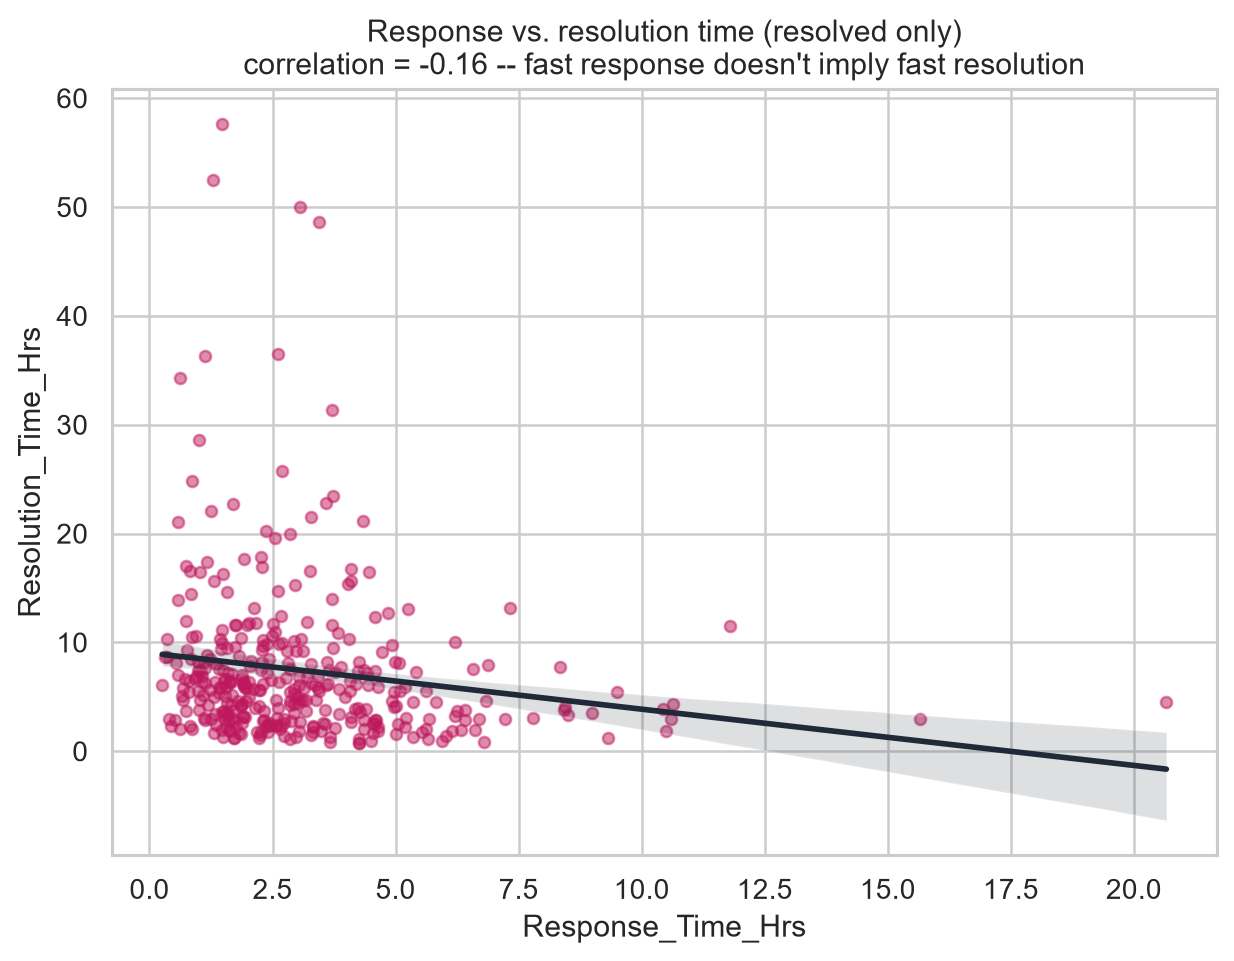
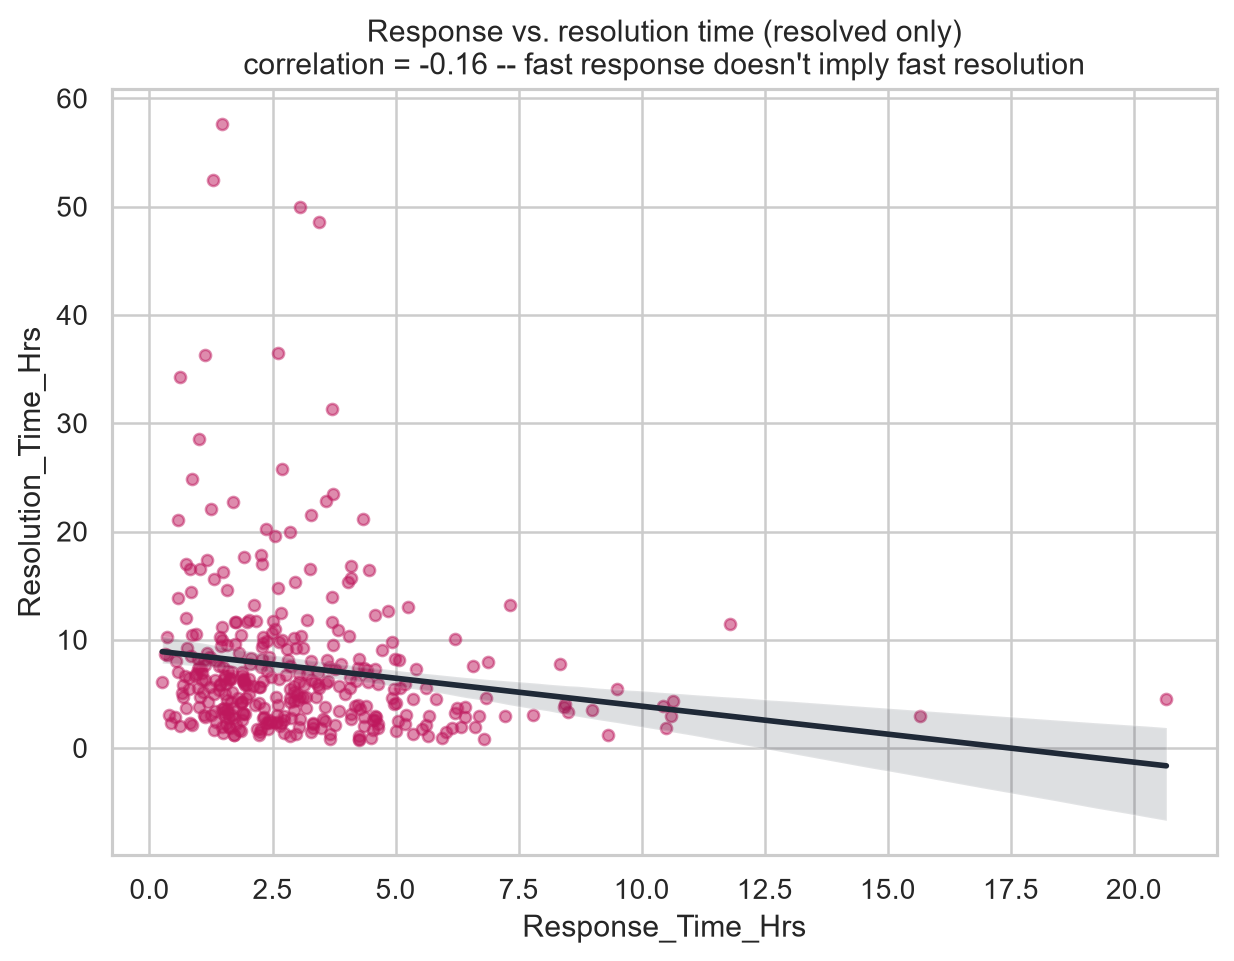
Add cross-validation functionality and update model evaluation metrics
- Implemented 5-fold cross-validation in the training process.
- Refactored training and evaluation functions for clarity and reusability.
- Updated model metrics note to reflect changes in evaluation methodology.
- Added new JSON output for cross-validation results.
- Updated existing metrics to provide clearer insights on model performance.

Changed region(s): [[0.0616, 0.4995, 0.9854, 0.8117], [0.0924, 0.437, 0.9854, 0.4995], [0.0308, 0.5307, 0.0616, 0.5619]]

diff --git a/main.py b/main.py
@@ -33,7 +33,7 @@ import seaborn as sns
 import torch
 from sklearn.compose import ColumnTransformer
 from sklearn.metrics import mean_absolute_error, mean_squared_error, r2_score
-from sklearn.model_selection import train_test_split
+from sklearn.model_selection import KFold, train_test_split
 from sklearn.preprocessing import OneHotEncoder, StandardScaler
 from torch import nn
 from torch.utils.data import DataLoader, TensorDataset
@@ -211,6 +211,54 @@ class ResolutionMLP(nn.Module):
         return self.network(x).squeeze(1)
 
 
+def _train_mlp(
+    X_train: pd.DataFrame, y_train: pd.Series,
+    X_val: pd.DataFrame, y_val: pd.Series,
+    epochs: int, patience: int = 30,
+) -> tuple[nn.Module, ColumnTransformer, list[dict]]:
+    """Fit a preprocessor + MLP on (X_train, y_train), early-stopping on
+    (X_val, y_val). Shared by the single-split run and each CV fold so the
+    two can't drift apart.
+    """
+    preprocessor = ColumnTransformer([
+        ("categorical", OneHotEncoder(handle_unknown="ignore", sparse_output=False), CAT_FEATURES),
+        ("numeric", StandardScaler(), NUM_FEATURES),
+    ])
+    train_np = np.ascontiguousarray(preprocessor.fit_transform(X_train).astype("float32"))
+    val_np = np.ascontiguousarray(preprocessor.transform(X_val).astype("float32"))
+    train_x, val_x = map(torch.from_numpy, [train_np, val_np])
+    train_y = torch.from_numpy(y_train.to_numpy(dtype="float32").copy())
+    val_y = torch.from_numpy(y_val.to_numpy(dtype="float32").copy())
+
+    model = ResolutionMLP(train_x.shape[1])
+    optimizer = torch.optim.AdamW(model.parameters(), lr=1e-3, weight_decay=1e-4)
+    loss_fn = nn.HuberLoss()
+    loader = DataLoader(TensorDataset(train_x, train_y), batch_size=32, shuffle=True)
+    best_state, best_val, patience_left = None, float("inf"), patience
+    history = []
+    for epoch in range(1, epochs + 1):
+        model.train()
+        losses = []
+        for xb, yb in loader:
+            optimizer.zero_grad()
+            loss = loss_fn(model(xb), yb)
+            loss.backward()
+            optimizer.step()
+            losses.append(loss.item())
+        model.eval()
+        with torch.no_grad():
+            val_loss = loss_fn(model(val_x), val_y).item()
+        history.append({"epoch": epoch, "train_loss": float(np.mean(losses)), "val_loss": val_loss})
+        if val_loss < best_val - 1e-4:
+            best_val, best_state, patience_left = val_loss, copy.deepcopy(model.state_dict()), patience
+        else:
+            patience_left -= 1
+            if patience_left == 0:
+                break
+    model.load_state_dict(best_state)
+    return model, preprocessor, history
+
+
 def evaluate(model: nn.Module, X: torch.Tensor, y: torch.Tensor) -> dict:
     model.eval()
     with torch.no_grad():
@@ -230,44 +278,10 @@ def train_model(X: pd.DataFrame, y: pd.Series, output_dir: Path, epochs: int) ->
     X_train, X_val, y_train, y_val = train_test_split(
         X_train, y_train, test_size=0.20, random_state=SEED
     )
-    preprocessor = ColumnTransformer([
-        ("categorical", OneHotEncoder(handle_unknown="ignore", sparse_output=False), CAT_FEATURES),
-        ("numeric", StandardScaler(), NUM_FEATURES),
-    ])
-    train_np = np.ascontiguousarray(preprocessor.fit_transform(X_train).astype("float32"))
-    val_np = np.ascontiguousarray(preprocessor.transform(X_val).astype("float32"))
+    model, preprocessor, history = _train_mlp(X_train, y_train, X_val, y_val, epochs)
     test_np = np.ascontiguousarray(preprocessor.transform(X_test).astype("float32"))
-    train_x, val_x, test_x = map(torch.from_numpy, [train_np, val_np, test_np])
-    train_y = torch.from_numpy(y_train.to_numpy(dtype="float32").copy())
-    val_y = torch.from_numpy(y_val.to_numpy(dtype="float32").copy())
+    test_x = torch.from_numpy(test_np)
     test_y = torch.from_numpy(y_test.to_numpy(dtype="float32").copy())
-
-    model = ResolutionMLP(train_x.shape[1])
-    optimizer = torch.optim.AdamW(model.parameters(), lr=1e-3, weight_decay=1e-4)
-    loss_fn = nn.HuberLoss()
-    loader = DataLoader(TensorDataset(train_x, train_y), batch_size=32, shuffle=True)
-    best_state, best_val, patience_left = None, float("inf"), 30
-    history = []
-    for epoch in range(1, epochs + 1):
-        model.train()
-        losses = []
-        for xb, yb in loader:
-            optimizer.zero_grad()
-            loss = loss_fn(model(xb), yb)
-            loss.backward()
-            optimizer.step()
-            losses.append(loss.item())
-        model.eval()
-        with torch.no_grad():
-            val_loss = loss_fn(model(val_x), val_y).item()
-        history.append({"epoch": epoch, "train_loss": float(np.mean(losses)), "val_loss": val_loss})
-        if val_loss < best_val - 1e-4:
-            best_val, best_state, patience_left = val_loss, copy.deepcopy(model.state_dict()), 30
-        else:
-            patience_left -= 1
-            if patience_left == 0:
-                break
-    model.load_state_dict(best_state)
 
     metrics = evaluate(model, test_x, test_y)
     baseline = np.full(len(y_test), y_train.median(), dtype="float32")
@@ -277,11 +291,14 @@ def train_model(X: pd.DataFrame, y: pd.Series, output_dir: Path, epochs: int) ->
     metrics["n_val"] = int(len(y_val))
     metrics["n_test"] = int(len(y_test))
     metrics["note"] = (
-        "Trained on Resolved=='Yes' tickets only. Sample size is small, so treat "
-        "R2/MAE as indicative rather than a precise estimate -- consider k-fold "
-        "cross-validation before reporting a single number."
+        "Trained on Resolved=='Yes' tickets only. This is a single train/test "
+        "split, so treat R2/MAE as indicative rather than precise -- see "
+        "cv_metrics.json for a 5-fold cross-validated estimate."
     )
-    torch.save({"model_state": model.state_dict(), "input_dim": train_x.shape[1]}, output_dir / "resolution_model.pt")
+    torch.save(
+        {"model_state": model.state_dict(), "input_dim": len(preprocessor.get_feature_names_out())},
+        output_dir / "resolution_model.pt",
+    )
     (output_dir / "model_metrics.json").write_text(json.dumps(metrics, indent=2), encoding="utf-8")
 
     hist = pd.DataFrame(history)
@@ -293,11 +310,84 @@ def train_model(X: pd.DataFrame, y: pd.Series, output_dir: Path, epochs: int) ->
     return metrics
 
 
+def cross_validate_model(X: pd.DataFrame, y: pd.Series, output_dir: Path, epochs: int, n_splits: int = 5) -> dict:
+    """5-fold CV: each fold holds out 1/5 of the resolved tickets as a test
+    set, trains on the rest (with its own internal train/early-stop-val
+    split), and evaluates on the held-out fold. This gives a mean +/- spread
+    instead of one single-split number that can swing with the random seed.
+    """
+    kfold = KFold(n_splits=n_splits, shuffle=True, random_state=SEED)
+    X_reset, y_reset = X.reset_index(drop=True), y.reset_index(drop=True)
+
+    fold_results = []
+    for fold_idx, (train_idx, test_idx) in enumerate(kfold.split(X_reset), start=1):
+        X_fold_train, X_test = X_reset.iloc[train_idx], X_reset.iloc[test_idx]
+        y_fold_train, y_test = y_reset.iloc[train_idx], y_reset.iloc[test_idx]
+        # Carve an internal early-stopping validation set out of this fold's training data.
+        X_train, X_val, y_train, y_val = train_test_split(
+            X_fold_train, y_fold_train, test_size=0.20, random_state=SEED
+        )
+        model, preprocessor, _ = _train_mlp(X_train, y_train, X_val, y_val, epochs, patience=20)
+
+        test_np = np.ascontiguousarray(preprocessor.transform(X_test).astype("float32"))
+        test_x = torch.from_numpy(test_np)
+        test_y = torch.from_numpy(y_test.to_numpy(dtype="float32").copy())
+
+        fold_metrics = evaluate(model, test_x, test_y)
+        baseline_pred = np.full(len(y_test), y_fold_train.median(), dtype="float32")
+        fold_metrics["baseline_MAE_hours"] = float(mean_absolute_error(y_test, baseline_pred))
+        fold_metrics["fold"] = fold_idx
+        fold_metrics["n_train"] = int(len(y_train))
+        fold_metrics["n_test"] = int(len(y_test))
+        fold_results.append(fold_metrics)
+        print(
+            f"  Fold {fold_idx}/{n_splits}: MAE={fold_metrics['MAE_hours']:.2f}h "
+            f"(baseline={fold_metrics['baseline_MAE_hours']:.2f}h) R2={fold_metrics['R2']:.3f}"
+        )
+
+    def _mean_std(key: str) -> tuple[float, float]:
+        values = np.array([f[key] for f in fold_results])
+        return float(values.mean()), float(values.std(ddof=1))
+
+    mae_mean, mae_std = _mean_std("MAE_hours")
+    rmse_mean, rmse_std = _mean_std("RMSE_hours")
+    r2_mean, r2_std = _mean_std("R2")
+    baseline_mean, baseline_std = _mean_std("baseline_MAE_hours")
+    # Rough 95% CI on the mean using a normal approximation (n_splits is small,
+    # so treat this as indicative, not a rigorous confidence interval).
+    ci_95_half_width = 1.96 * mae_std / np.sqrt(n_splits)
+
+    summary = {
+        "n_splits": n_splits,
+        "MAE_hours_mean": round(mae_mean, 3),
+        "MAE_hours_std": round(mae_std, 3),
+        "MAE_hours_95pct_CI": [round(mae_mean - ci_95_half_width, 3), round(mae_mean + ci_95_half_width, 3)],
+        "RMSE_hours_mean": round(rmse_mean, 3),
+        "RMSE_hours_std": round(rmse_std, 3),
+        "R2_mean": round(r2_mean, 3),
+        "R2_std": round(r2_std, 3),
+        "baseline_MAE_hours_mean": round(baseline_mean, 3),
+        "baseline_MAE_hours_std": round(baseline_std, 3),
+        "model_beats_baseline": bool(mae_mean < baseline_mean),
+        "per_fold": fold_results,
+        "note": (
+            "Each fold trains on ~80% of resolved tickets and tests on the "
+            "held-out 20%. Compare MAE_hours_mean to baseline_MAE_hours_mean: "
+            "if the model isn't clearly and consistently below baseline across "
+            "folds (small std, non-overlapping CI), the single-split result "
+            "earlier isn't a fluke -- the features genuinely lack signal."
+        ),
+    }
+    (output_dir / "cv_metrics.json").write_text(json.dumps(summary, indent=2), encoding="utf-8")
+    return summary
+
+
 def main() -> None:
     parser = argparse.ArgumentParser()
     parser.add_argument("--csv", type=Path, default=Path("FUNAAB_ICTREC_Helpdesk_500_Instances.csv"))
     parser.add_argument("--output", type=Path, default=Path("analysis_output"))
     parser.add_argument("--epochs", type=int, default=400)
+    parser.add_argument("--cv-folds", type=int, default=5)
     args = parser.parse_args()
     seed_everything()
     df, resolved_df, X, y = load_and_prepare(args.csv)
@@ -306,7 +396,12 @@ def main() -> None:
         f"(excluded {len(df) - len(resolved_df)} still-open tickets)."
     )
     print("Observed summary:", json.dumps(save_exploration(df, resolved_df, args.output), indent=2))
-    print("Model metrics:", json.dumps(train_model(X, y, args.output, args.epochs), indent=2))
+    print("Model metrics (single split):", json.dumps(train_model(X, y, args.output, args.epochs), indent=2))
+    print(f"Running {args.cv_folds}-fold cross-validation...")
+    cv_summary = cross_validate_model(X, y, args.output, args.epochs, n_splits=args.cv_folds)
+    print("Cross-validation summary:", json.dumps(
+        {k: v for k, v in cv_summary.items() if k != "per_fold"}, indent=2
+    ))
 
 
 if __name__ == "__main__":
